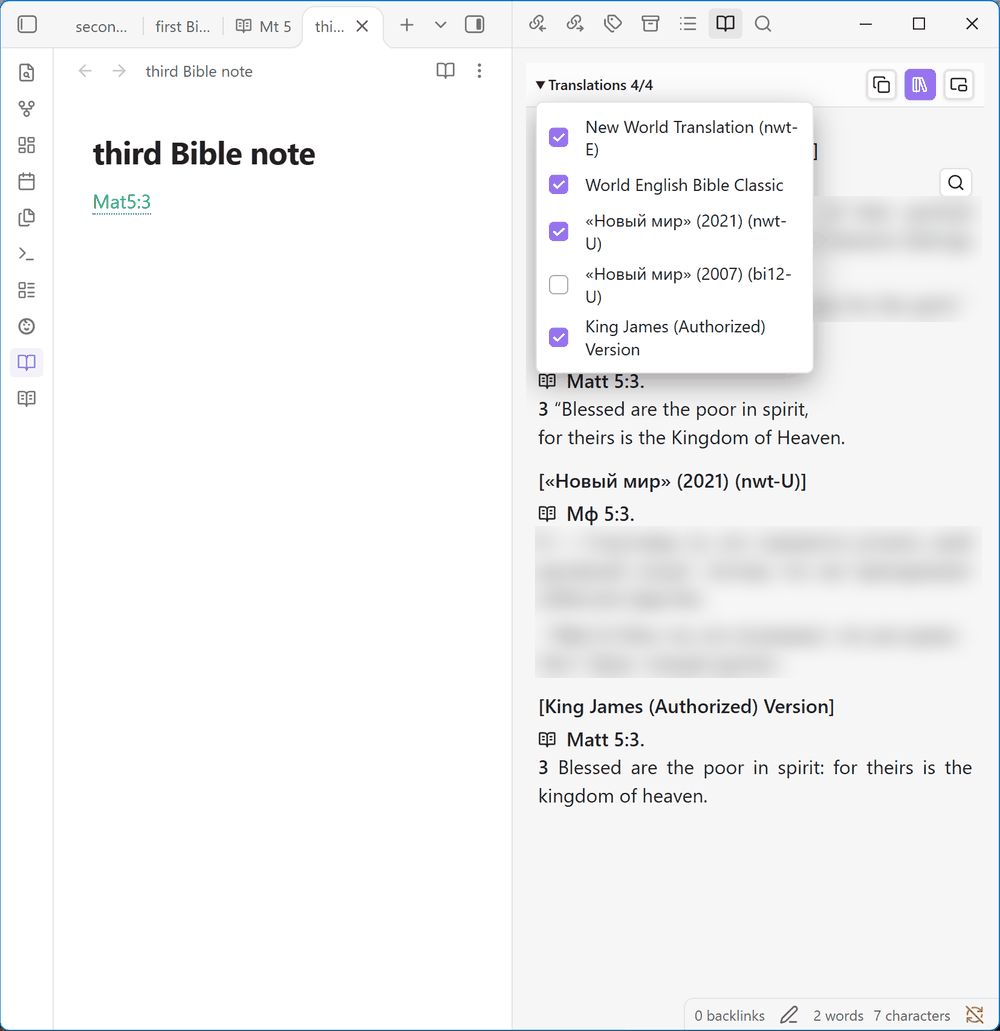
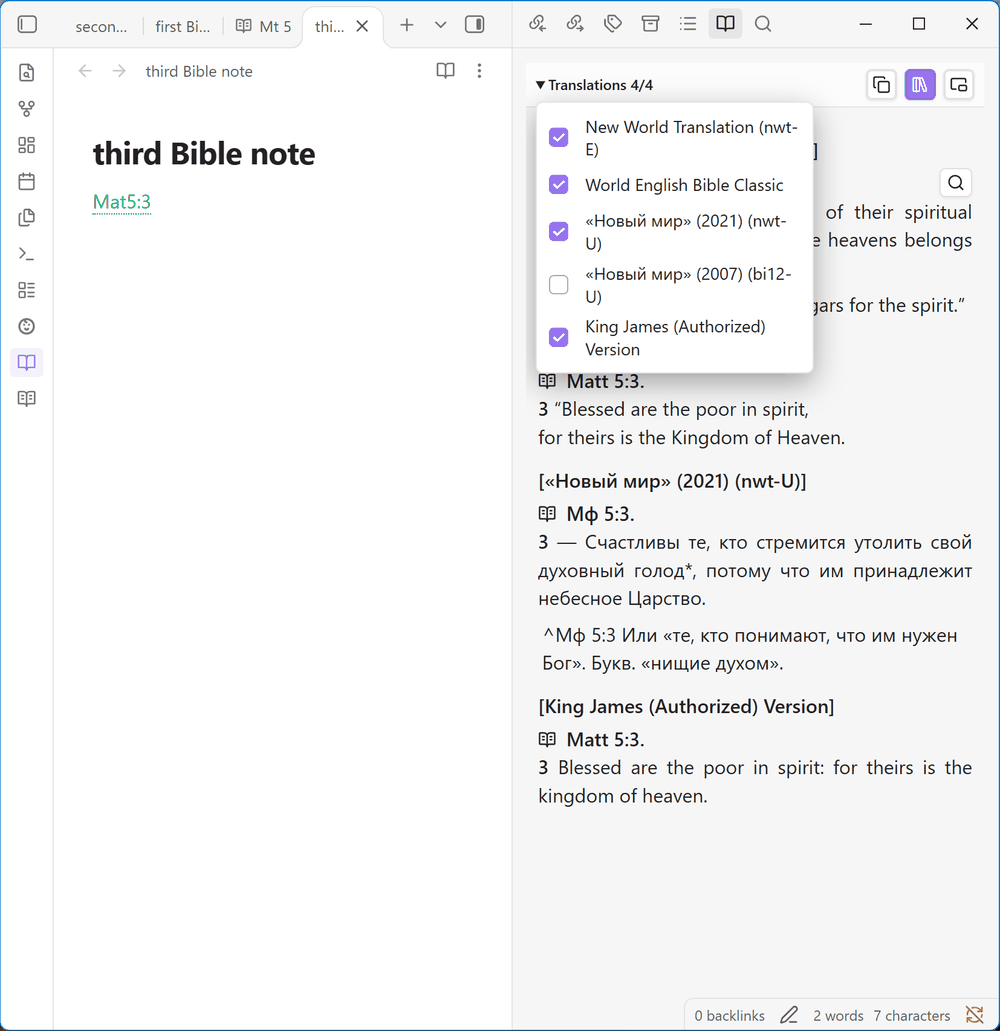
Keep the original screenshots; README section only
Claude-Session: https://claude.ai/code/session_01PeyDT3pzp1zBzNxpcYE5if

Changed region(s): [[0.527, 0.4966, 0.992, 0.6518], [0.806, 0.1862, 0.992, 0.2483], [0.806, 0.2793, 0.961, 0.3104]]

diff --git a/README.ru.md b/README.ru.md
@@ -111,7 +111,7 @@
 
 ## Тексты Библии и авторские права
 
-Плагин не содержит текста Библии и ничего не скачивает: вы импортируете файл, который скачали сами, и текст хранится в папке плагина в вашем хранилище. Плагин не связан с jw.org, eBible.org и Digital Bible Society. У каждого перевода остаются его авторские права и условия сайта, откуда вы его взяли; например, jw.org разрешает использовать свои публикации в личных некоммерческих целях. Используйте импортированные тексты для личного изучения и проверяйте лицензию, прежде чем ими делиться. Поэтому на скриншотах выше текст «Нового мира» замылен.
+Плагин не содержит текста Библии и ничего не скачивает: вы импортируете файл, который скачали сами, и текст хранится в папке плагина в вашем хранилище. Плагин не связан с jw.org, eBible.org и Digital Bible Society. У каждого перевода остаются его авторские права и условия сайта, откуда вы его взяли; например, jw.org разрешает использовать свои публикации в личных некоммерческих целях. Используйте импортированные тексты для личного изучения и проверяйте лицензию, прежде чем ими делиться.
 
 ## Конфиденциальность
 

diff --git a/README.md b/README.md
@@ -111,7 +111,7 @@ Verses that the translation joins together are shown under one number ("16–17"
 
 ## Bible texts and copyright
 
-The plugin contains no Bible text and downloads nothing: you import a file you downloaded yourself, and the text stays in the plugin folder of your vault. The plugin is not affiliated with jw.org, eBible.org or the Digital Bible Society. Each translation keeps its copyright and the terms of the site you got it from; for example, jw.org allows its publications for personal, non-commercial use. Keep imported texts for your own study and check the license before sharing them. In the screenshots above, the text of the New World Translation is blurred for this reason.
+The plugin contains no Bible text and downloads nothing: you import a file you downloaded yourself, and the text stays in the plugin folder of your vault. The plugin is not affiliated with jw.org, eBible.org or the Digital Bible Society. Each translation keeps its copyright and the terms of the site you got it from; for example, jw.org allows its publications for personal, non-commercial use. Keep imported texts for your own study and check the license before sharing them.
 
 ## Privacy
 

diff --git a/CHANGELOG.md b/CHANGELOG.md
@@ -5,7 +5,7 @@
 - A reference no longer continues on the next line: in "Judg 4:3,14;" followed by "5:14" on a new line, 5:14 used to be highlighted as a link that did not open. Now only the first line is a reference, the same in the editor, the preview, reading mode and the usage index.
 - Questions and ideas now have a home in [GitHub Discussions](https://github.com/yuriy-bak/obsidian-bible-reference-preview/discussions), linked from the README and the new issue page.
 - README: phone screenshots of the Bible reader under the note and the Bible translations page.
-- README: a "Bible texts and copyright" section (the plugin has no Bible text, is not affiliated with jw.org, eBible.org or the Digital Bible Society; imported texts are for personal study), and the New World Translation text in the screenshots and the GIF is blurred.
+- README: a "Bible texts and copyright" section (the plugin has no Bible text, is not affiliated with jw.org, eBible.org or the Digital Bible Society; imported texts are for personal study).
 
 ## 0.3.4 - Compact translation list, safer index, clearer errors
 
